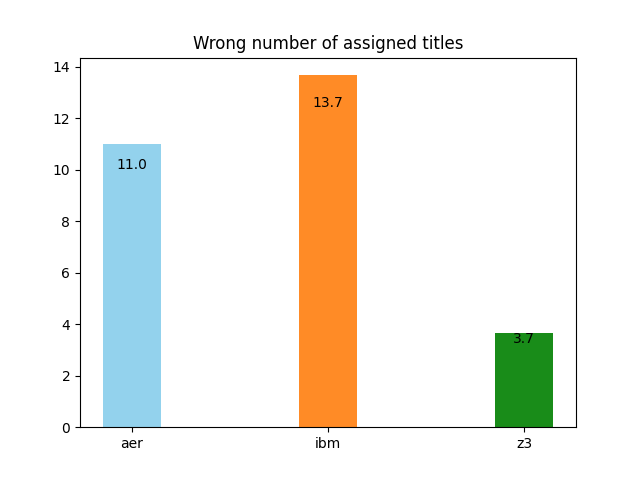
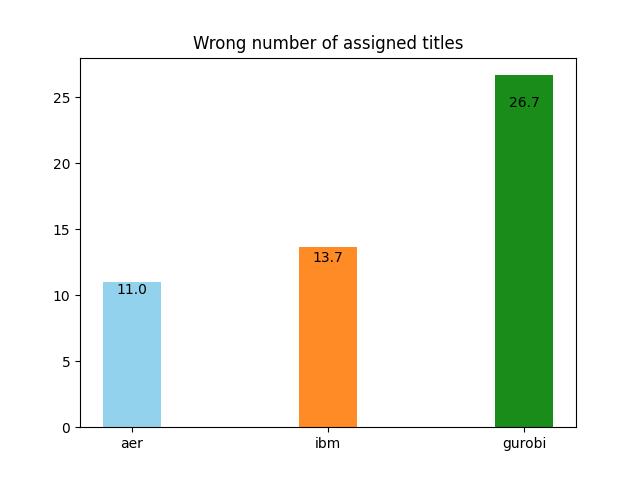
gurobi june results

diff --git a/plot_stats_june.py b/plot_stats_june.py
@@ -39,7 +39,7 @@ def printDataJune(method:str):
     physicians_compare.append(all_data[method]['physician path'])
 
 def plotDataJune(method:str, schedule=True):
-    colors = {'ibm':'skyblue', 'z3':'tab:orange', 'aer':'green'}
+    colors = {'ibm':'skyblue', 'gurobi':'tab:orange', 'aer':'green'}
     # TODO PLOT RUNS DATA         # 'run': {'full time':end_time-start_time, 'Hc full':qaoa_Hc_cost, 'bitstring':qaoa_bitstring, 'demands':demands, 'layers':n_layers,'search iterations (if aer)':search_iterations, 'pref seed':preference_seed,'n candidates':n_candidates,'lambdas':lambdas, 'constraints':constraint_scores}
     times_plot.append(all_data[method]['run']['full time'])
     Hcs_plot.append(all_data[method]['run']['Hc full'])
@@ -70,7 +70,7 @@ def plotDataJune(method:str, schedule=True):
         evaluator_m = Evaluator(all_data[method]['schedule'], cl, time_period, lambdas, physician_path='data/intermediate/physician_universal_june.csv') # TODO: should be same prefs & exts as: f'data/results/physician/{method}_15phys_time{timestamps[method]}.csv'
         evaluator_m.makeResultMatrix()
         evaluator_m.evaluateConstraints(1)
-        fig = evaluator_m.cleanPlot(width=20,title=f'June schedule using {method}', tile_col = colors[method])
+        fig = evaluator_m.cleanPlot(width=10,title=f'June schedule using {method}', tile_col = colors[method])
         fig.savefig(f'data/results/final_plots/june/schedules/{method}_final_schedule.png')
 
 
@@ -93,14 +93,14 @@ def plotStats(plot_data, methods, title='', ylabel=''):
     plt.show()
 
 n_physicians = 15 # SHOULD BE 15 
-methods = ['aer', 'ibm', 'z3']#'gurobi']   #, 'ibm', 'gurobi', 'z3'] #maybe not z3
+methods = ['aer', 'ibm', 'gurobi']   #, 'ibm', 'gurobi', 'z3'] #maybe not z3
 all_data = {}
 time_period = 'all'
 cl = 3
 lambdas = {'demand':3, 'fair':10, 'pref':5, 'unavail':15, 'extent':8, 'rest':0, 'titles':5, 'memory':3} 
 physician_universal_june = pd.read_csv('data/intermediate/physician_universal_june.csv', index_col=None)
 
-timestamps = {'aer':1746722550,'ibm':1746706255,'gurobi':0000,'z3':1746721526}
+timestamps = {'aer':1746722550,'ibm':1746706255,'gurobi':1747069324,'z3':1746721526}
 times_plot, Hcs_plot, manys_plot, fews_plot, titles_plot, sat_avgs_plot, sat_vars_plot, extents_plot, unavails_plot, physicians_compare  = [], [],[], [],[], [],[], [],[], []
 for method in methods:
     if method =='z3':
@@ -111,7 +111,7 @@ for method in methods:
     printDataJune(method)
     plotDataJune(method, schedule=True) # Plot schedule and append stats to lists
 
-"""
+
 plotStats(times_plot, methods, title='Full computation time', ylabel='Time [s]')
 plotStats(Hcs_plot, methods, title='Hc costs')
 plotStats(manys_plot, methods, title='Too many workers')
@@ -120,7 +120,7 @@ plotStats(titles_plot, methods, title='Wrong number of assigned titles')
 plotStats(sat_avgs_plot, methods, title='Satisfaction', ylabel='Avg. satisfaction score')
 plotStats(sat_vars_plot, methods, title='Satisfaction fairness', ylabel='Variance in satisfaction scores')
 plotStats(extents_plot, methods, title='Employment extent error', ylabel='Avg. distance from target n.o. shifts [%]')
-plotStats(unavails_plot, methods, title='Shifts assigned to unavailable physicians')"""
+plotStats(unavails_plot, methods, title='Shifts assigned to unavailable physicians')
 
 if 'aer' in methods and 'ibm' in methods:
     # Plot 2-gates and circuit depth

diff --git a/postprocessing/postprocessing.py b/postprocessing/postprocessing.py
@@ -380,8 +380,8 @@ class Evaluator:
                 pref_squares = ax.scatter(x.ravel(), y.ravel(), s=(50*scale_squares*(x_size/self.n_shifts))**2, c='none',marker='s', linewidths=4*scale_squares, edgecolors=prefer_colors) 
         
         xticks = [i for i in np.arange(self.n_shifts)]
-        xlabels = [date[5:] for date in self.result_df['date']] # NOTE removed year from ticks
-        ax.set_xticks(ticks=xticks, labels=xlabels,fontsize=8) 
+        xlabels = [str(date[-2:])+'/6' for date in self.result_df['date']] # NOTE removed year from ticks
+        ax.set_xticks(ticks=xticks, labels=xlabels,fontsize=8,rotation=45) 
         yticks = [i for i in np.arange(self.n_physicians)]
         ax.set_yticks(ticks=yticks, labels=[f'{name} ({title})({ext}%)' for name, title, ext in zip(self.physician_df['name'],self.physician_df['title'],self.physician_df['extent'])])
         #ax.spines["right"].set_linewidth(0) # remove right side of frame
